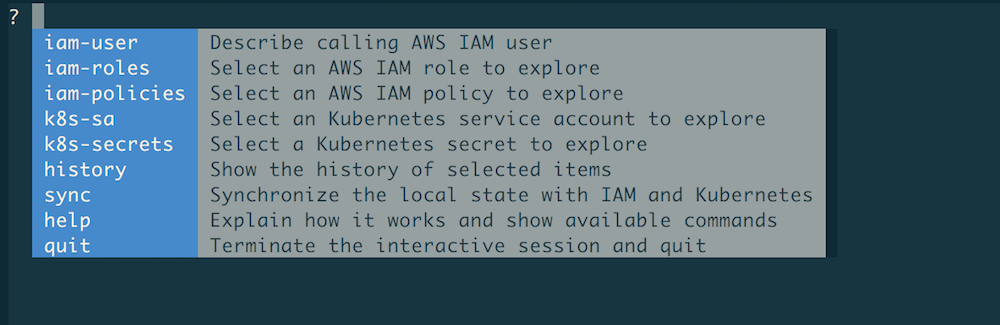
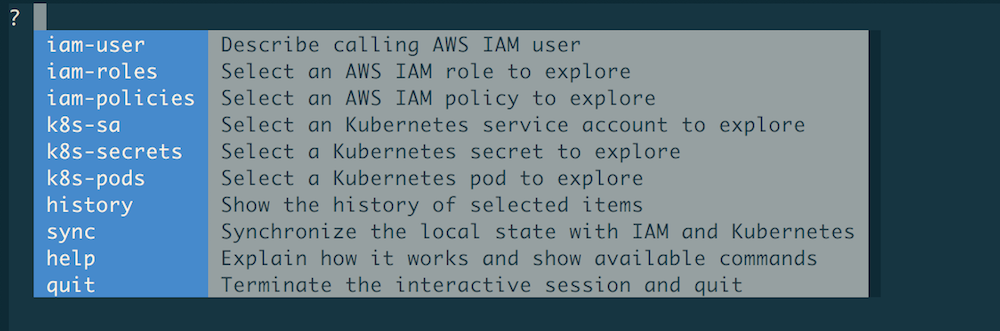
Deployed 1f3a04f with MkDocs version: 1.0.4

Changed region(s): [[0.0, 0.0, 0.868, 0.9231]]

diff --git a/getting-started/index.html b/getting-started/index.html
@@ -350,6 +350,13 @@
 </li>
         
           <li class="md-nav__item">
+  <a href="#exploring-kubernetes-pods" title="Exploring Kubernetes pods" class="md-nav__link">
+    Exploring Kubernetes pods
+  </a>
+  
+</li>
+        
+          <li class="md-nav__item">
   <a href="#exploring-kubernetes-service-accounts-secrets" title="Exploring Kubernetes service accounts &amp; secrets" class="md-nav__link">
     Exploring Kubernetes service accounts &amp; secrets
   </a>
@@ -495,6 +502,13 @@
 </li>
         
           <li class="md-nav__item">
+  <a href="#exploring-kubernetes-pods" title="Exploring Kubernetes pods" class="md-nav__link">
+    Exploring Kubernetes pods
+  </a>
+  
+</li>
+        
+          <li class="md-nav__item">
   <a href="#exploring-kubernetes-service-accounts-secrets" title="Exploring Kubernetes service accounts &amp; secrets" class="md-nav__link">
     Exploring Kubernetes service accounts &amp; secrets
   </a>
@@ -608,9 +622,17 @@ entries and then selected one for exploration with <code>ENTER</code>:</p>
 </div>
 <p>To learn about AWS policies, use the <code>iam-policies</code> command.</p>
 <p><img alt="AWS IAM policies" src="../img/w_iam_policies.png" /></p>
+<h4 id="exploring-kubernetes-pods">Exploring Kubernetes pods<a class="headerlink" href="#exploring-kubernetes-pods" title="Permanent link">&para;</a></h4>
+<p>Starting off with your app, you want to explore an Kubernetes pod. For this, use
+the <code>k8s-pods</code> command as follows:</p>
+<p><img alt="Kubernetes pods" src="../img/w_k8s_pods.png" /></p>
+<p>Now that we have the pod info, we can continue with the service account we found
+here, in this case <code>fluent-bit</code>.</p>
 <h4 id="exploring-kubernetes-service-accounts-secrets">Exploring Kubernetes service accounts &amp; secrets<a class="headerlink" href="#exploring-kubernetes-service-accounts-secrets" title="Permanent link">&para;</a></h4>
 <p>To explore Kubernetes service accounts and their secrets, use the <code>k8s-sa</code> and 
-the <code>k8s-secrets</code> command, respectively:</p>
+the <code>k8s-secrets</code> command, respectively. From the previous step we've gathered
+that for the Fluent Bit pod we're interested in the service account <code>fluent-bit</code> 
+so let's look this up along with its secret:</p>
 <p><img alt="Kubernetes service accounts &amp; secrets" src="../img/w_k8s_sa_secret.png" /></p>
 <div class="admonition note">
 <p class="admonition-title">Note</p>
